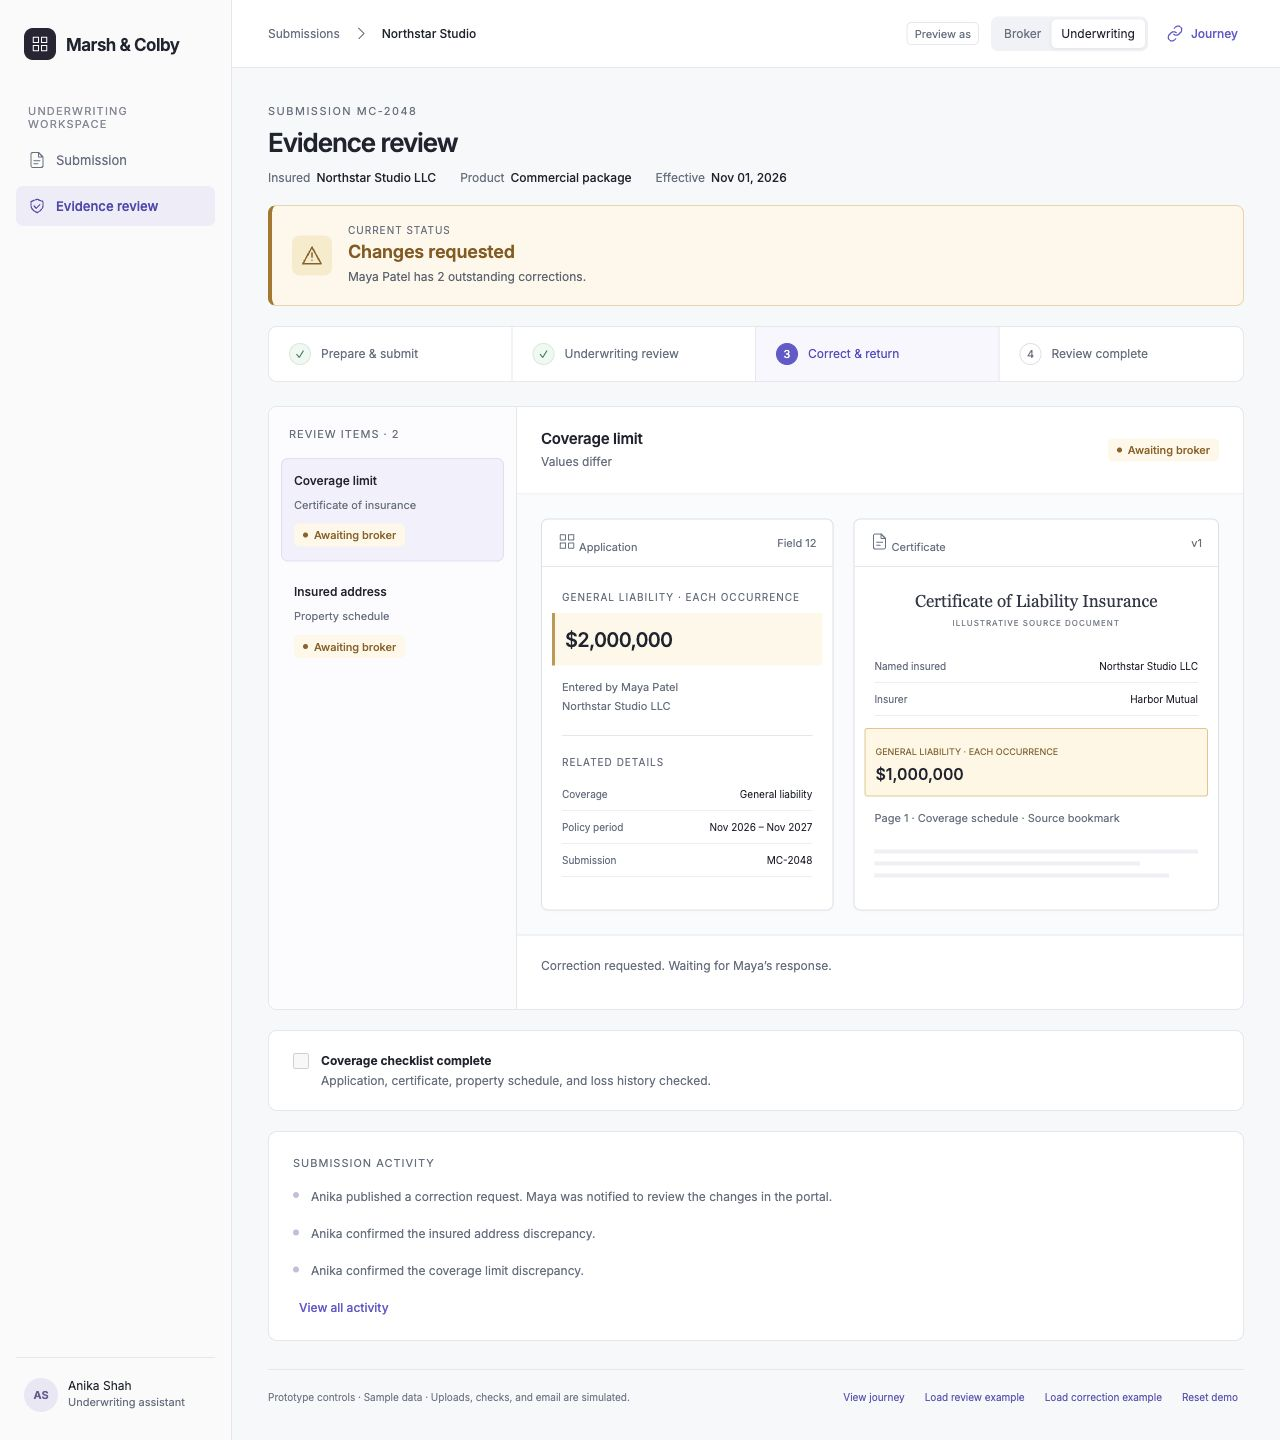
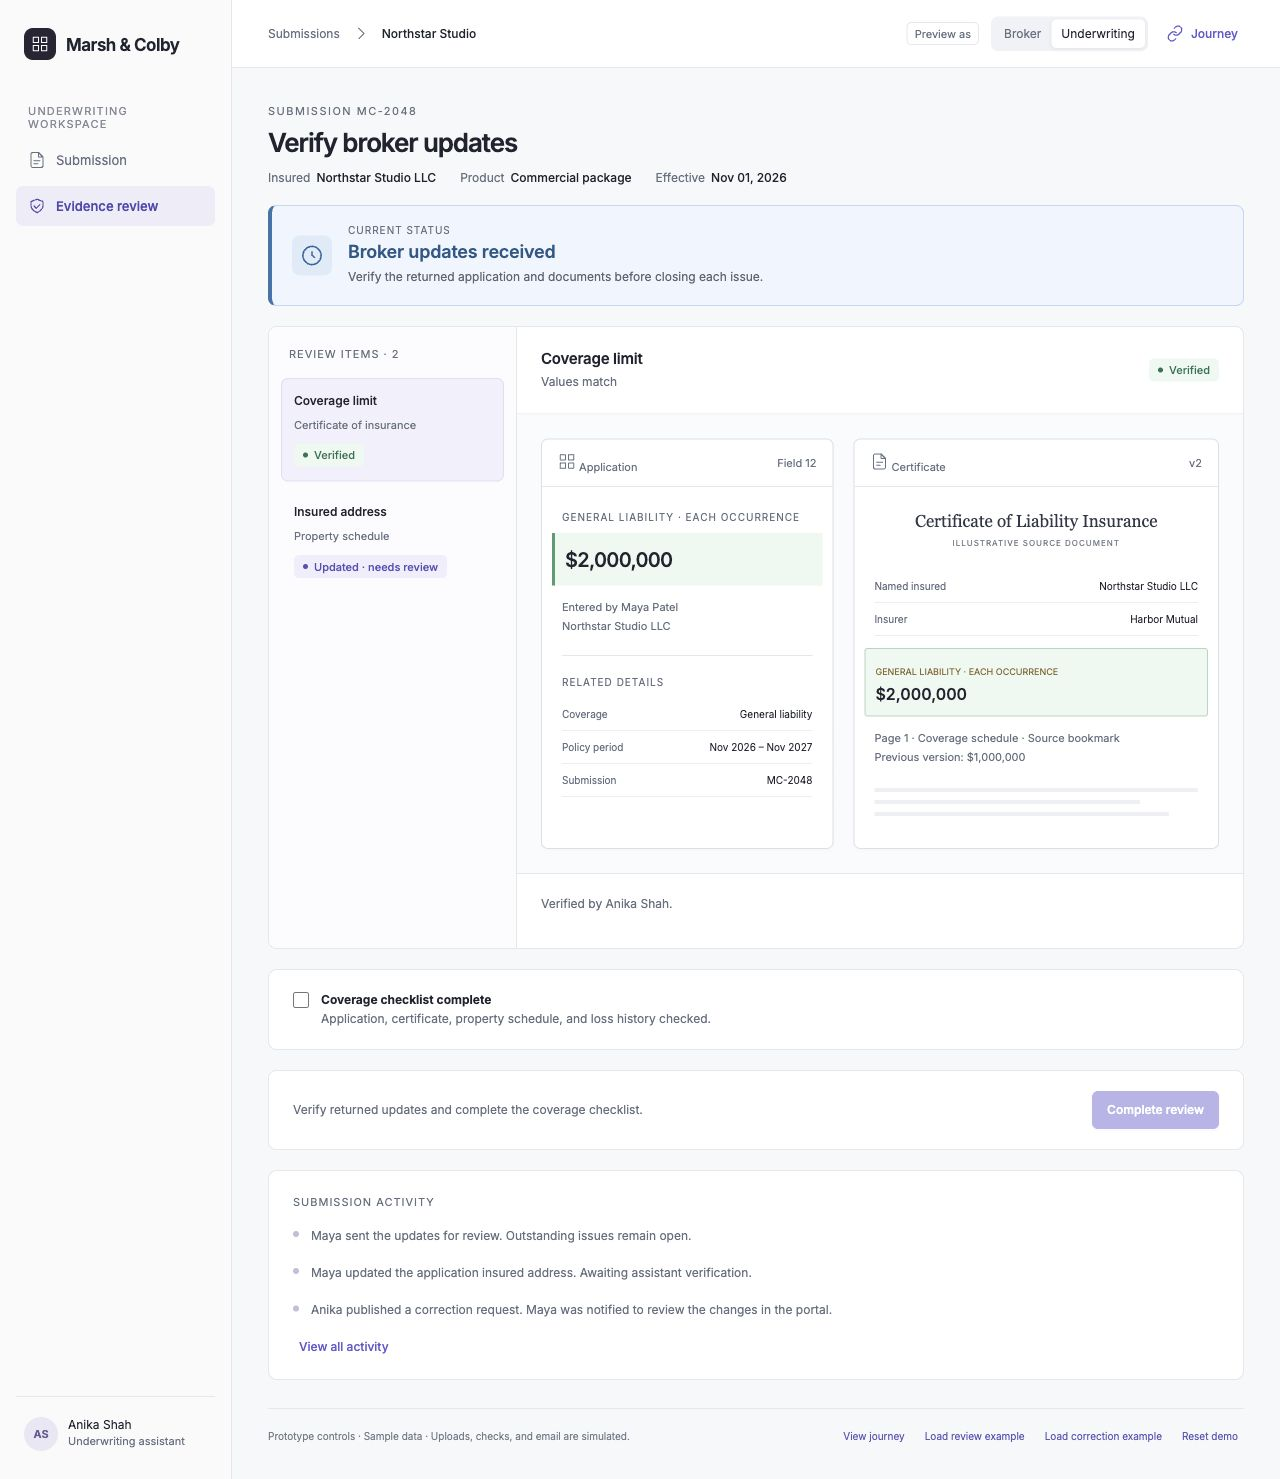
Update final review screenshot and deployment notes

diff --git a/logs/ai/dev.md b/logs/ai/dev.md
@@ -4,7 +4,7 @@ Project Type: dev
 Last Updated: [Tue 2026-10-13 14:29]
 
 ## CURRENT STATE
-Revision 27b70e8 deployed successfully to the existing GitHub Pages URL. Hosted UI verified: broker navigation contains only Submission/Requested changes; assistant navigation contains only Submission/Evidence review. Submitted broker view has prominent review status and no intake discrepancy warnings. Role switching only uses the top control. No browser errors. Eighteen tests pass.
+Final update e6e28be deployed successfully. Live underwriting draft shows only Submission not received; no application fields, broker preparation steps, or received documents. Awaiting broker requests and returned-update verification were checked locally. All 22 tests pass.
 <!-- END CONTEXT_BLOCK -->
 
 ## CHANGE LOG
@@ -38,3 +38,8 @@ Revision 27b70e8 deployed successfully to the existing GitHub Pages URL. Hosted 
 **Type:** correction
 **Summary:** Underwriting starts with Submission not received before broker submission, with no application fields, document counts, or broker stepper. Initial review, Awaiting broker corrections dashboard, and Verify broker updates are distinct. Broker document rows support Replace/Remove/Upload in place; Upload new document adds a separate supporting file. Required document removal blocks submission until restored. Twenty-two tests and browser receipt/document/correction-return checks passed.
 **Impact:** Matches role-specific task ownership and document lifecycle.
+
+### [Tue 2026-10-13 15:23]
+**Type:** verification
+**Summary:** Final update e6e28be deployed successfully. Live underwriting draft shows only Submission not received; no application fields, broker preparation steps, or received documents. Awaiting broker requests and returned-update verification were checked locally. All 22 tests pass.
+**Impact:** Ready for the user to record the walkthrough.

diff --git a/logs/ai/plans.md b/logs/ai/plans.md
@@ -4,7 +4,7 @@ Project Type: dev
 Last Updated: [Tue 2026-10-13 14:29]
 
 ## CURRENT STATE
-Revision 27b70e8 deployed successfully to the existing GitHub Pages URL. Hosted UI verified: broker navigation contains only Submission/Requested changes; assistant navigation contains only Submission/Evidence review. Submitted broker view has prominent review status and no intake discrepancy warnings. Role switching only uses the top control. No browser errors. Eighteen tests pass.
+Final update e6e28be deployed successfully. Live underwriting draft shows only Submission not received; no application fields, broker preparation steps, or received documents. Awaiting broker requests and returned-update verification were checked locally. All 22 tests pass.
 <!-- END CONTEXT_BLOCK -->
 
 ## CHANGE LOG
@@ -38,3 +38,8 @@ Revision 27b70e8 deployed successfully to the existing GitHub Pages URL. Hosted 
 **Type:** correction
 **Summary:** Underwriting starts with Submission not received before broker submission, with no application fields, document counts, or broker stepper. Initial review, Awaiting broker corrections dashboard, and Verify broker updates are distinct. Broker document rows support Replace/Remove/Upload in place; Upload new document adds a separate supporting file. Required document removal blocks submission until restored. Twenty-two tests and browser receipt/document/correction-return checks passed.
 **Impact:** Matches role-specific task ownership and document lifecycle.
+
+### [Tue 2026-10-13 15:23]
+**Type:** verification
+**Summary:** Final update e6e28be deployed successfully. Live underwriting draft shows only Submission not received; no application fields, broker preparation steps, or received documents. Awaiting broker requests and returned-update verification were checked locally. All 22 tests pass.
+**Impact:** Ready for the user to record the walkthrough.

diff --git a/logs/human/dev.md b/logs/human/dev.md
@@ -6,6 +6,10 @@ _Last updated: [Tue 2026-10-13 14:29]_
 
 ## Log
 
+**[Tue 2026-10-13 15:23]** · Final update verified
+Final update e6e28be deployed successfully. Live underwriting draft shows only Submission not received; no application fields, broker preparation steps, or received documents. Awaiting broker requests and returned-update verification were checked locally. All 22 tests pass.
+
+
 **[Tue 2026-10-13 15:20]** · Document and underwriting-stage fixes
 Underwriting starts with Submission not received before broker submission, with no application fields, document counts, or broker stepper. Initial review, Awaiting broker corrections dashboard, and Verify broker updates are distinct. Broker document rows support Replace/Remove/Upload in place; Upload new document adds a separate supporting file. Required document removal blocks submission until restored. Twenty-two tests and browser receipt/document/correction-return checks passed.
 

diff --git a/logs/human/plans.md b/logs/human/plans.md
@@ -6,6 +6,10 @@ _Last updated: [Tue 2026-10-13 14:29]_
 
 ## Log
 
+**[Tue 2026-10-13 15:23]** · Final update verified
+Final update e6e28be deployed successfully. Live underwriting draft shows only Submission not received; no application fields, broker preparation steps, or received documents. Awaiting broker requests and returned-update verification were checked locally. All 22 tests pass.
+
+
 **[Tue 2026-10-13 15:20]** · Document and underwriting-stage fixes
 Underwriting starts with Submission not received before broker submission, with no application fields, document counts, or broker stepper. Initial review, Awaiting broker corrections dashboard, and Verify broker updates are distinct. Broker document rows support Replace/Remove/Upload in place; Upload new document adds a separate supporting file. Required document removal blocks submission until restored. Twenty-two tests and browser receipt/document/correction-return checks passed.
 
